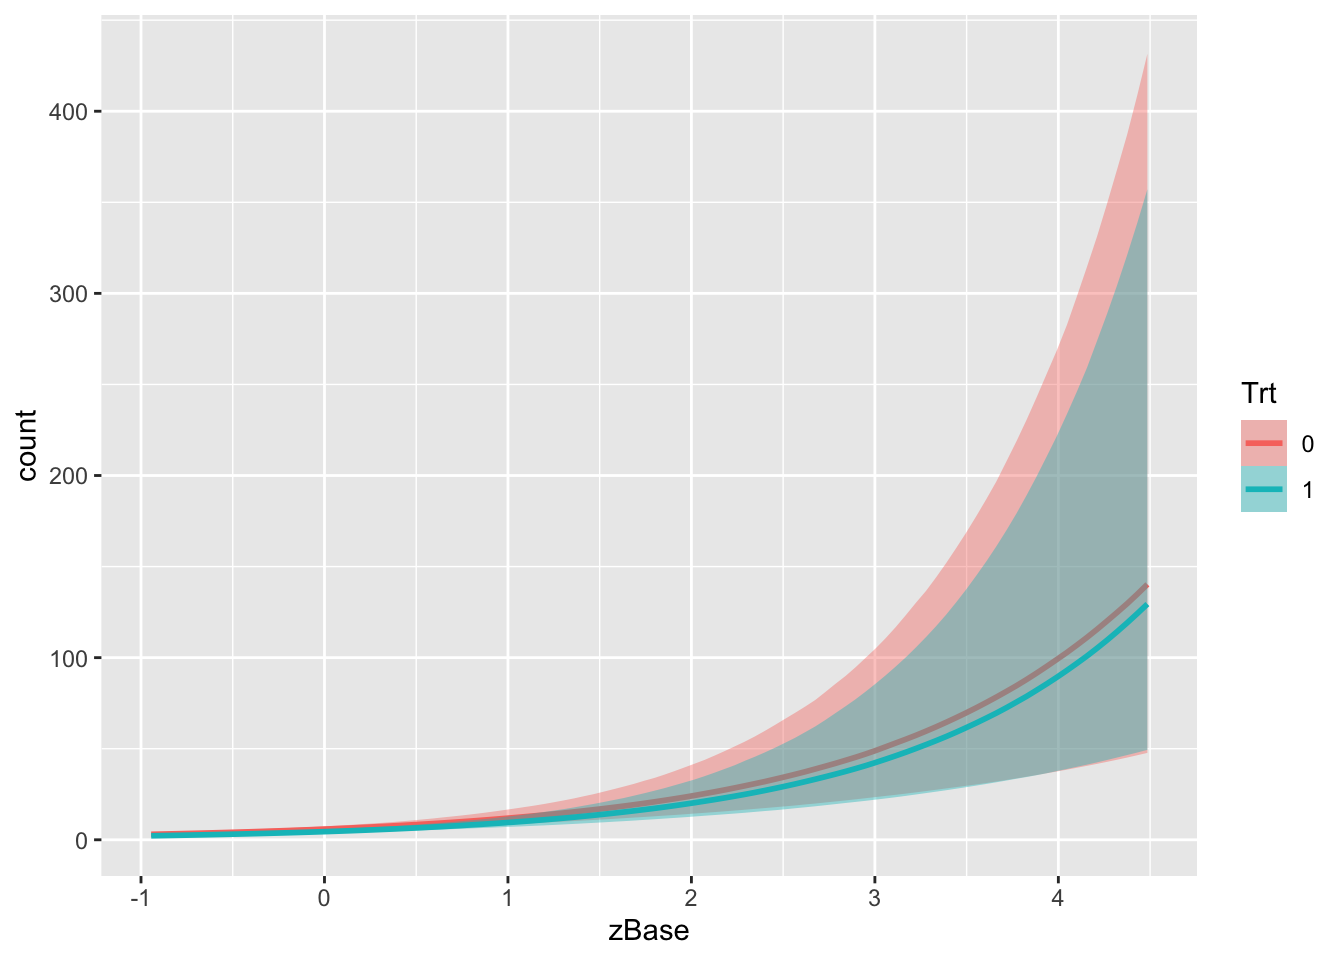
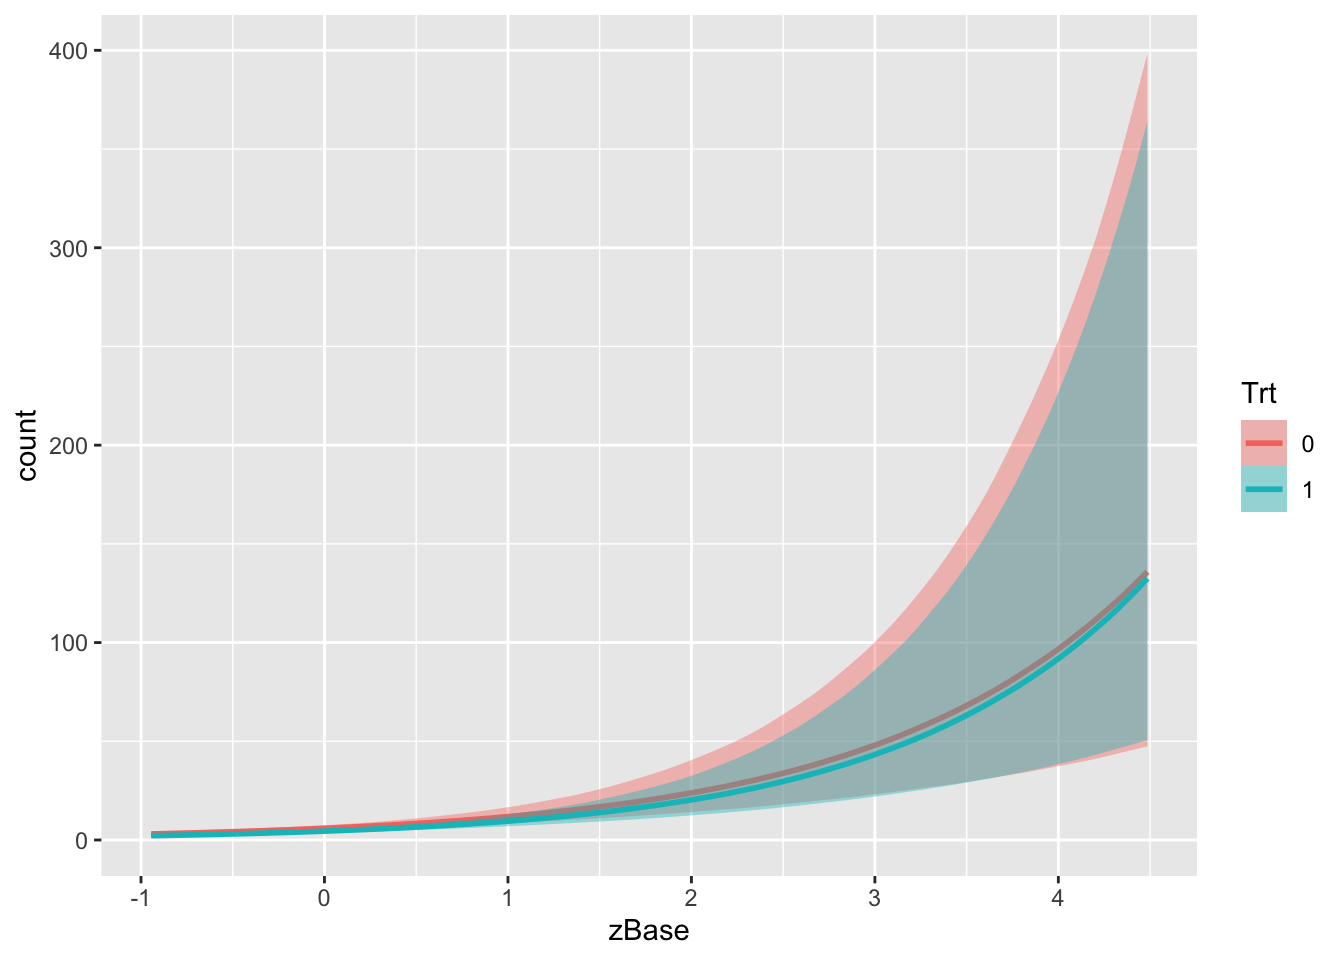
Added notes about bayes factors, not sure this is correct without PE terms

diff --git a/Experimental Policies/bayesian-analyses.html.md b/Experimental Policies/bayesian-analyses.html.md
@@ -35,9 +35,18 @@ $$
 \frac{P(E|H)}{P(E)} = 0.1/0.7 = 0.07
 $$
 
-0.07 is much less than one, so based on my rough estimate the study changed my opinion by $1/0.07=~14$ fold, a value which is known as the Bayes Factor.
+0.07 is much less than one, so based on my rough estimate the study changed my opinion by $1/0.07=~14$ fold.  Another way to think about this is to compare the **posterior** probabilities of two hypotheses or models ($BF=\frac{Pr(E|H_1)}{Pr(E|H_2)}$) a value which is known as the Bayes Factor.  This is because the $P(E)$ term is not expected to change depending on the hypothesis, because it is the overall probability of the observed data.
 
-## What is a Bayesian Analysis 
+### Interpreting a Bayesian Analysis
+
+Note that now we are reporting a poster probability ($P(H|E)$) or a bayesian factor.  In the former case we are saying that based on our prior probability and our baysian factor we report the probability that a hypothesis is true given the evidence (so closer to 1 is better).  In the latter, if we report a Bayes Factor we are reporting how much we expect that these data should modify any prior probability ($P(H)$).  This is an important distinction because a Bayes Factor does not make any claims about what the scientist initially thought about how likely a hypothesis was, so is more generalizabl.  Maybe I had some reason to think that the probability that protein intake max was 20-30g was 70% but another scientist thought it was closer to 90%, we would get different posterior probabilities but the same BF (0.07):
+
+$$P(H|E) = \frac{P(E|H)P(H)}{P(E)} = 0.07 \times 0.7=0.049$$
+$$P(H|E) = \frac{P(E|H)P(H)}{P(E)} = 0.07 \times 0.9=0.063$$
+
+## How to perform Bayesian Analyses
+
+There
 
 
 ::: {.cell}
@@ -146,8 +155,8 @@ Start sampling
 
 SAMPLING FOR MODEL 'anon_model' NOW (CHAIN 1).
 Chain 1: 
-Chain 1: Gradient evaluation took 7.4e-05 seconds
-Chain 1: 1000 transitions using 10 leapfrog steps per transition would take 0.74 seconds.
+Chain 1: Gradient evaluation took 6.7e-05 seconds
+Chain 1: 1000 transitions using 10 leapfrog steps per transition would take 0.67 seconds.
 Chain 1: Adjust your expectations accordingly!
 Chain 1: 
 Chain 1: 
@@ -164,15 +173,15 @@ Chain 1: Iteration: 1600 / 2000 [ 80%]  (Sampling)
 Chain 1: Iteration: 1800 / 2000 [ 90%]  (Sampling)
 Chain 1: Iteration: 2000 / 2000 [100%]  (Sampling)
 Chain 1: 
-Chain 1:  Elapsed Time: 1.349 seconds (Warm-up)
-Chain 1:                1.004 seconds (Sampling)
-Chain 1:                2.353 seconds (Total)
+Chain 1:  Elapsed Time: 1.29 seconds (Warm-up)
+Chain 1:                0.941 seconds (Sampling)
+Chain 1:                2.231 seconds (Total)
 Chain 1: 
 
 SAMPLING FOR MODEL 'anon_model' NOW (CHAIN 2).
 Chain 2: 
-Chain 2: Gradient evaluation took 1.5e-05 seconds
-Chain 2: 1000 transitions using 10 leapfrog steps per transition would take 0.15 seconds.
+Chain 2: Gradient evaluation took 1.9e-05 seconds
+Chain 2: 1000 transitions using 10 leapfrog steps per transition would take 0.19 seconds.
 Chain 2: Adjust your expectations accordingly!
 Chain 2: 
 Chain 2: 
@@ -189,15 +198,15 @@ Chain 2: Iteration: 1600 / 2000 [ 80%]  (Sampling)
 Chain 2: Iteration: 1800 / 2000 [ 90%]  (Sampling)
 Chain 2: Iteration: 2000 / 2000 [100%]  (Sampling)
 Chain 2: 
-Chain 2:  Elapsed Time: 1.354 seconds (Warm-up)
-Chain 2:                0.96 seconds (Sampling)
-Chain 2:                2.314 seconds (Total)
+Chain 2:  Elapsed Time: 1.366 seconds (Warm-up)
+Chain 2:                0.965 seconds (Sampling)
+Chain 2:                2.331 seconds (Total)
 Chain 2: 
 
 SAMPLING FOR MODEL 'anon_model' NOW (CHAIN 3).
 Chain 3: 
-Chain 3: Gradient evaluation took 1.5e-05 seconds
-Chain 3: 1000 transitions using 10 leapfrog steps per transition would take 0.15 seconds.
+Chain 3: Gradient evaluation took 2.1e-05 seconds
+Chain 3: 1000 transitions using 10 leapfrog steps per transition would take 0.21 seconds.
 Chain 3: Adjust your expectations accordingly!
 Chain 3: 
 Chain 3: 
@@ -214,15 +223,15 @@ Chain 3: Iteration: 1600 / 2000 [ 80%]  (Sampling)
 Chain 3: Iteration: 1800 / 2000 [ 90%]  (Sampling)
 Chain 3: Iteration: 2000 / 2000 [100%]  (Sampling)
 Chain 3: 
-Chain 3:  Elapsed Time: 1.316 seconds (Warm-up)
-Chain 3:                1.037 seconds (Sampling)
-Chain 3:                2.353 seconds (Total)
+Chain 3:  Elapsed Time: 1.391 seconds (Warm-up)
+Chain 3:                0.969 seconds (Sampling)
+Chain 3:                2.36 seconds (Total)
 Chain 3: 
 
 SAMPLING FOR MODEL 'anon_model' NOW (CHAIN 4).
 Chain 4: 
-Chain 4: Gradient evaluation took 1.6e-05 seconds
-Chain 4: 1000 transitions using 10 leapfrog steps per transition would take 0.16 seconds.
+Chain 4: Gradient evaluation took 1.8e-05 seconds
+Chain 4: 1000 transitions using 10 leapfrog steps per transition would take 0.18 seconds.
 Chain 4: Adjust your expectations accordingly!
 Chain 4: 
 Chain 4: 
@@ -239,9 +248,9 @@ Chain 4: Iteration: 1600 / 2000 [ 80%]  (Sampling)
 Chain 4: Iteration: 1800 / 2000 [ 90%]  (Sampling)
 Chain 4: Iteration: 2000 / 2000 [100%]  (Sampling)
 Chain 4: 
-Chain 4:  Elapsed Time: 1.278 seconds (Warm-up)
-Chain 4:                0.956 seconds (Sampling)
-Chain 4:                2.234 seconds (Total)
+Chain 4:  Elapsed Time: 1.359 seconds (Warm-up)
+Chain 4:                1.255 seconds (Sampling)
+Chain 4:                2.614 seconds (Total)
 Chain 4: 
 ```
 
@@ -265,15 +274,15 @@ Formula: count ~ zAge + zBase * Trt + (1 | patient)
 Multilevel Hyperparameters:
 ~patient (Number of levels: 59) 
               Estimate Est.Error l-95% CI u-95% CI Rhat Bulk_ESS Tail_ESS
-sd(Intercept)     0.58      0.07     0.47     0.73 1.01      935     1759
+sd(Intercept)     0.58      0.07     0.46     0.73 1.00      964     1778
 
 Regression Coefficients:
            Estimate Est.Error l-95% CI u-95% CI Rhat Bulk_ESS Tail_ESS
-Intercept      1.77      0.12     1.53     2.00 1.00      693     1398
-zAge           0.09      0.08    -0.08     0.26 1.00      772     1228
-zBase          0.71      0.12     0.47     0.95 1.00      850     1271
-Trt1          -0.27      0.17    -0.59     0.07 1.00      669     1220
-zBase:Trt1     0.04      0.17    -0.28     0.37 1.00      879     1609
+Intercept      1.78      0.12     1.54     2.01 1.00      753     1367
+zAge           0.10      0.09    -0.07     0.27 1.01      623      949
+zBase          0.70      0.12     0.47     0.93 1.00      870     1478
+Trt1          -0.28      0.16    -0.60     0.03 1.00      842     1576
+zBase:Trt1     0.06      0.16    -0.26     0.39 1.00     1019     1437
 
 Draws were sampled using sampling(NUTS). For each parameter, Bulk_ESS
 and Tail_ESS are effective sample size measures, and Rhat is the potential
@@ -405,7 +414,7 @@ hypothesis(fit, "High.AgeTRUE > 0")
 ```
 Hypothesis Tests for class b:
           Hypothesis Estimate Est.Error CI.Lower CI.Upper Evid.Ratio Post.Prob
-1 (High.AgeTRUE) > 0     0.03      1.61    -2.64     2.68       1.05      0.51
+1 (High.AgeTRUE) > 0        0      1.62    -2.72     2.61       1.01       0.5
   Star
 1     
 ---
